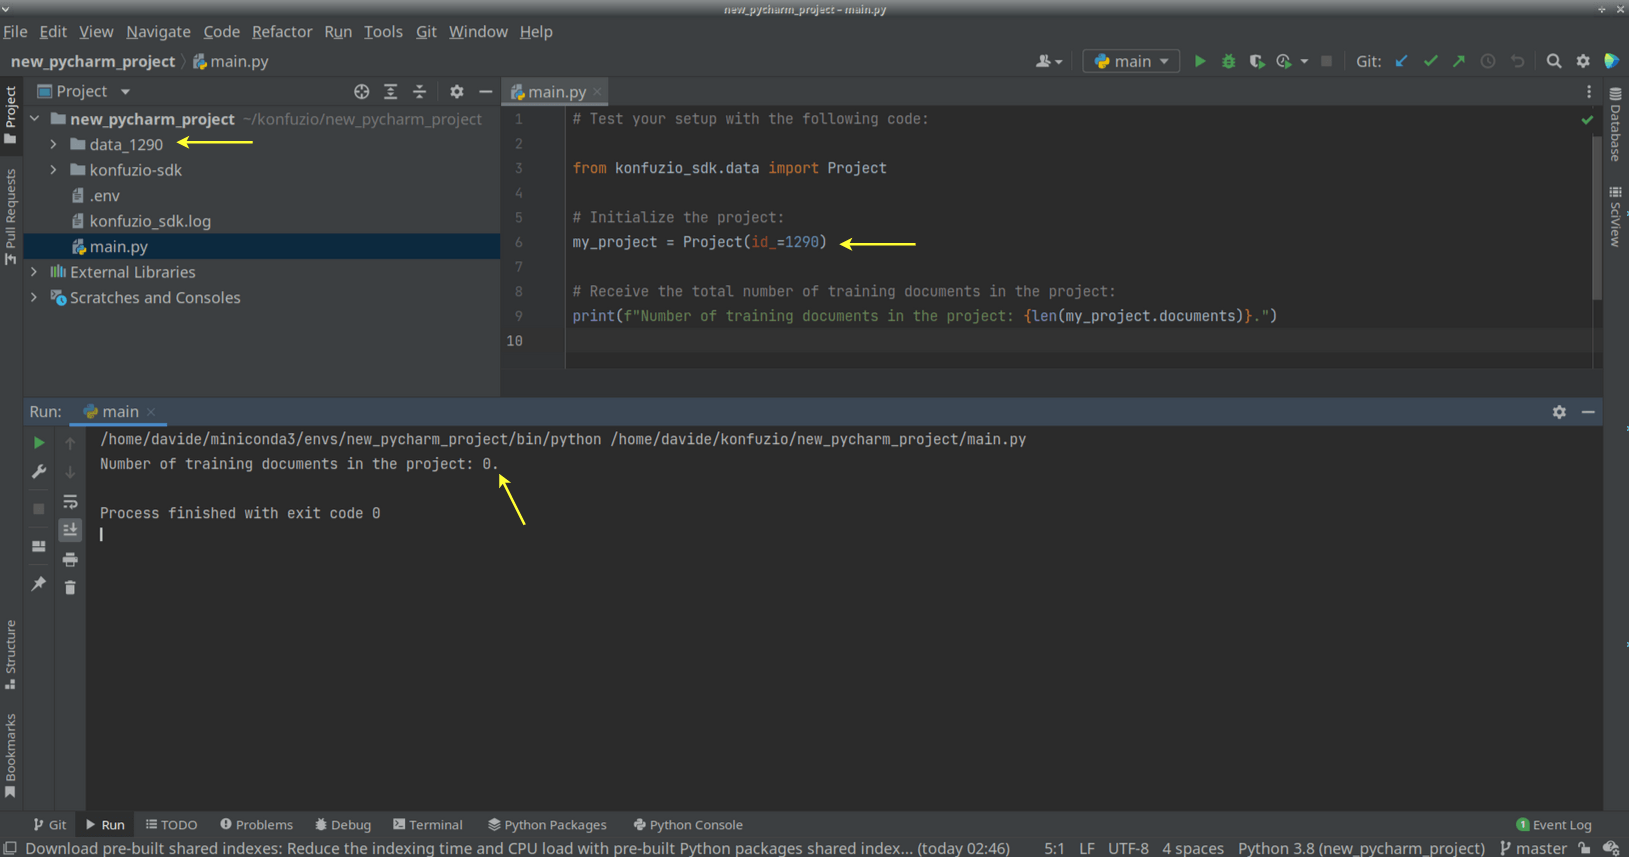
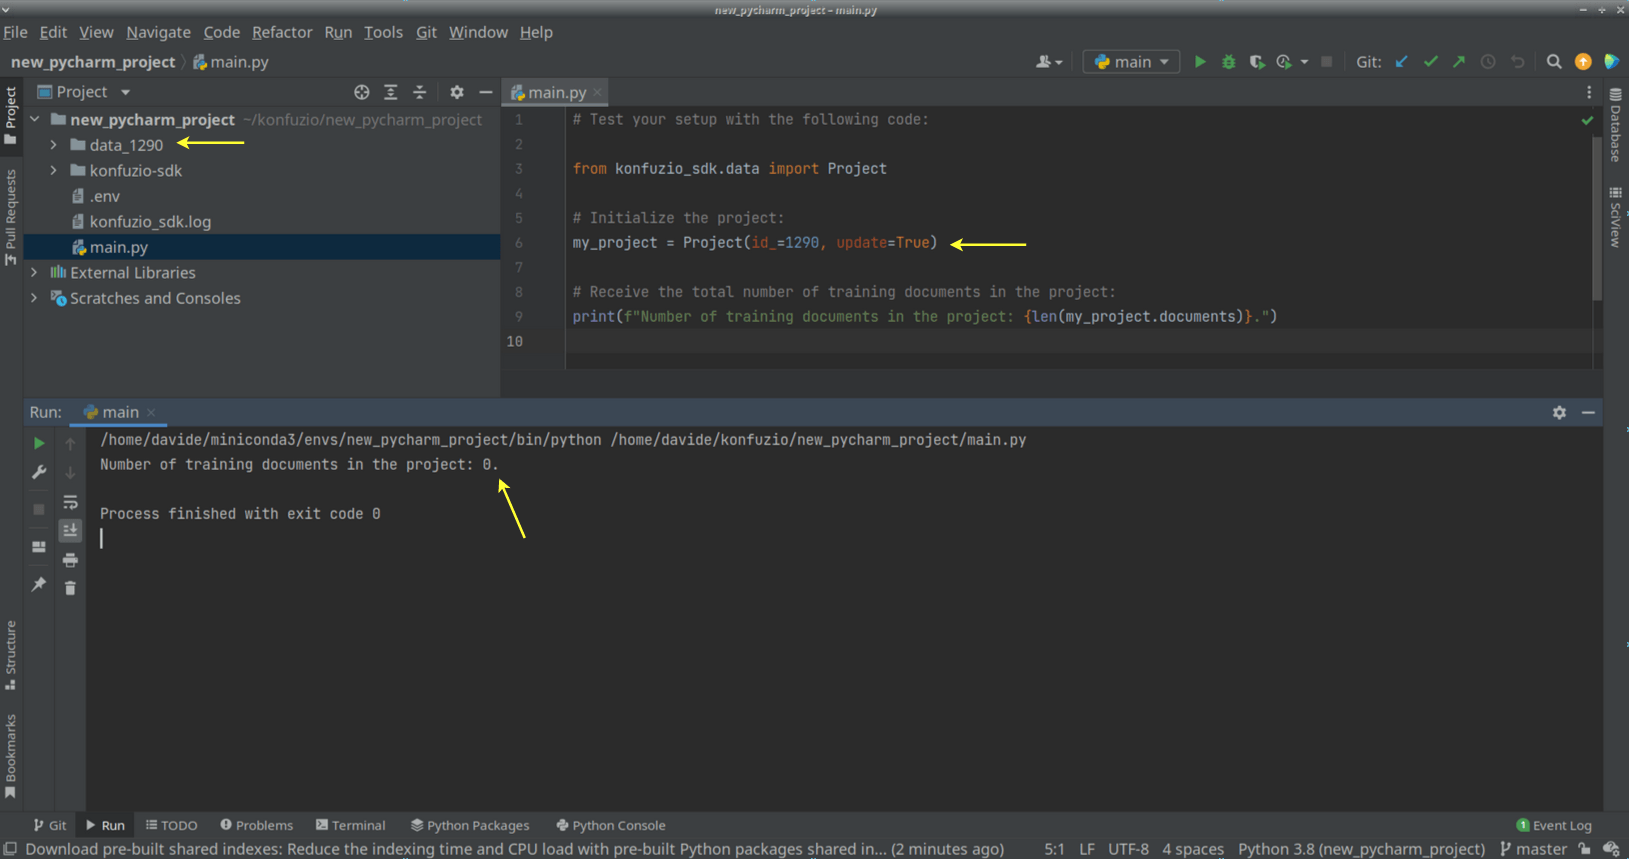
Add update=True to code example to download new documents

diff --git a/docs/sdk/quickstart_pycharm.md b/docs/sdk/quickstart_pycharm.md
@@ -55,8 +55,8 @@ working directory:
 
 #### 4. Define your working directory
 
-To store data downloaded with the Konfuzio SDK, indicate (if necessary) the location by inputting the path of your
-working directory. This path should be the location of the folder of the PyCharm project and can be found e.g. on the
+To store data downloaded with the Konfuzio SDK, indicate (if necessary) the location by inputting the path of your 
+working directory. This path should be the location of the folder of the PyCharm project and can be found e.g. on the 
 top left corner.
 `cd <your working directory>`
 
@@ -89,12 +89,13 @@ If you are new to our Konfuzio application, there are no existing projects yet. 
 
 To test whether everything is working as desired, we are going to execute a few basic commands in the main.py file.
 Therefore, please remove the current sample Python script provided by PyCharm by deleting the code. We start with
-initializing the project to retrieve the current version of the project from the web application. The screenshot shows
-the project ID 1290; you should replace this with your own. Once this is done, we count the total number of all
+initializing the project to retrieve the current version of the project from the web application. The screenshot shows 
+the project ID 1290; you should replace this with your own. Once this is done, we count the total number of all 
 documents allocated to the train set in the project.
 
-To run the code, press "Run" and then "Run main". You will noticethat a data folder gets created, containing your
-project files.As we didn't upload any documents to our project yet, the total number should be 0.
+To run the code, press "Run" and then "Run main". You will notice that a data folder gets created, containing your
+project files. As we didn't upload any documents to our project yet, the total number should be 0. If you upload new 
+documents later on, the flag `update=True` ensures that the SDK downloads them in your local data folder. 
 
 ```
 # Test your setup with the following code:
@@ -102,7 +103,7 @@ project files.As we didn't upload any documents to our project yet, the total nu
 from konfuzio_sdk.data import Project
 
 # Initialize the project:
-my_project = Project(id_=YOUR_PROJECT_ID)
+my_project = Project(id_=YOUR_PROJECT_ID, update=True)
 
 # Receive the total number of training documents in the project:
 print(f"Number of training documents in the project: {len(my_project.documents)}.")
